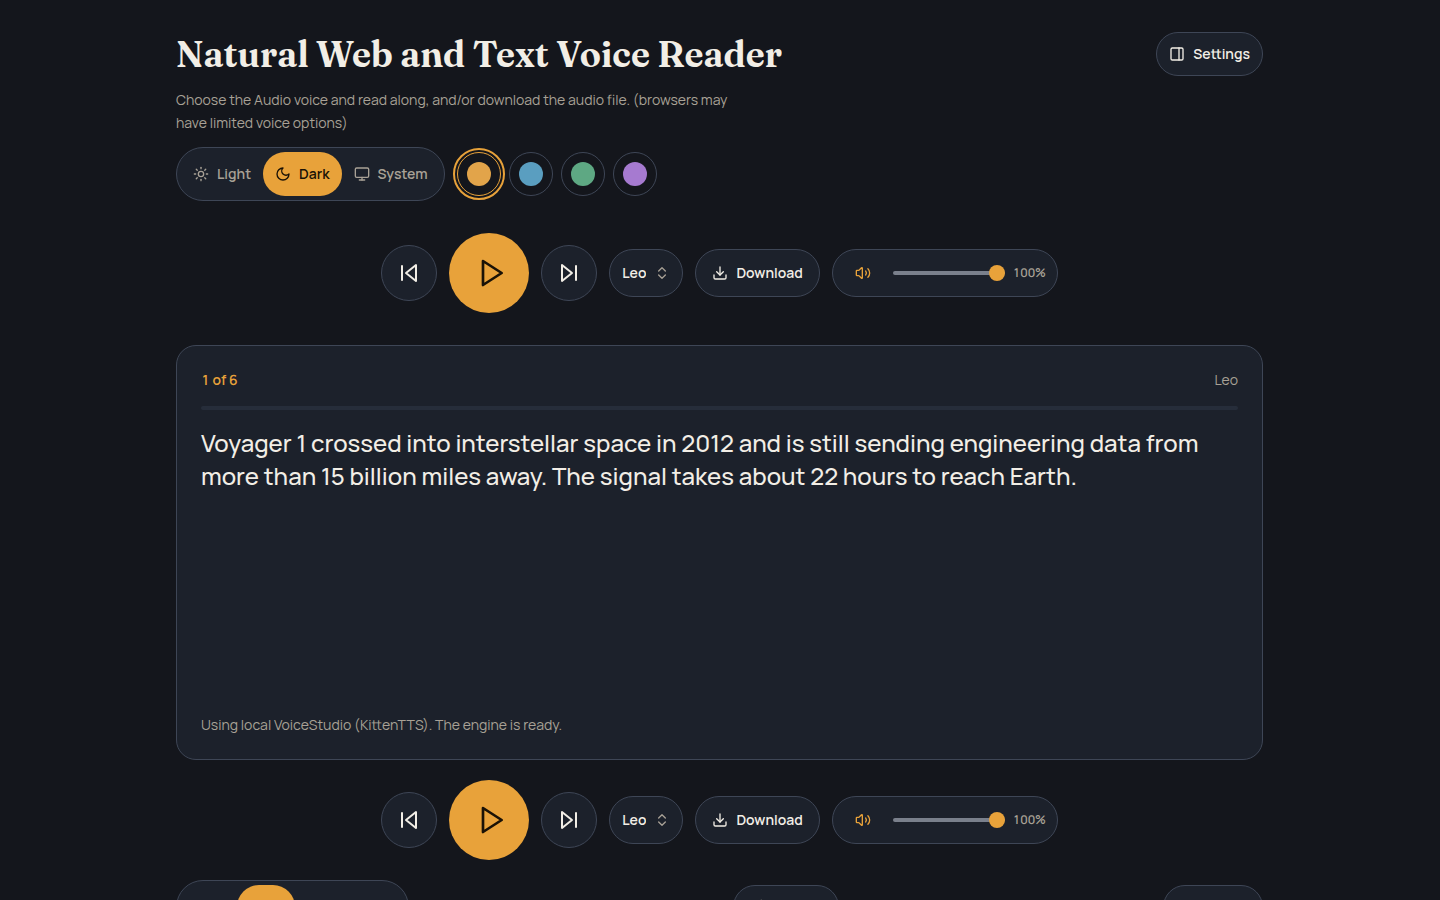
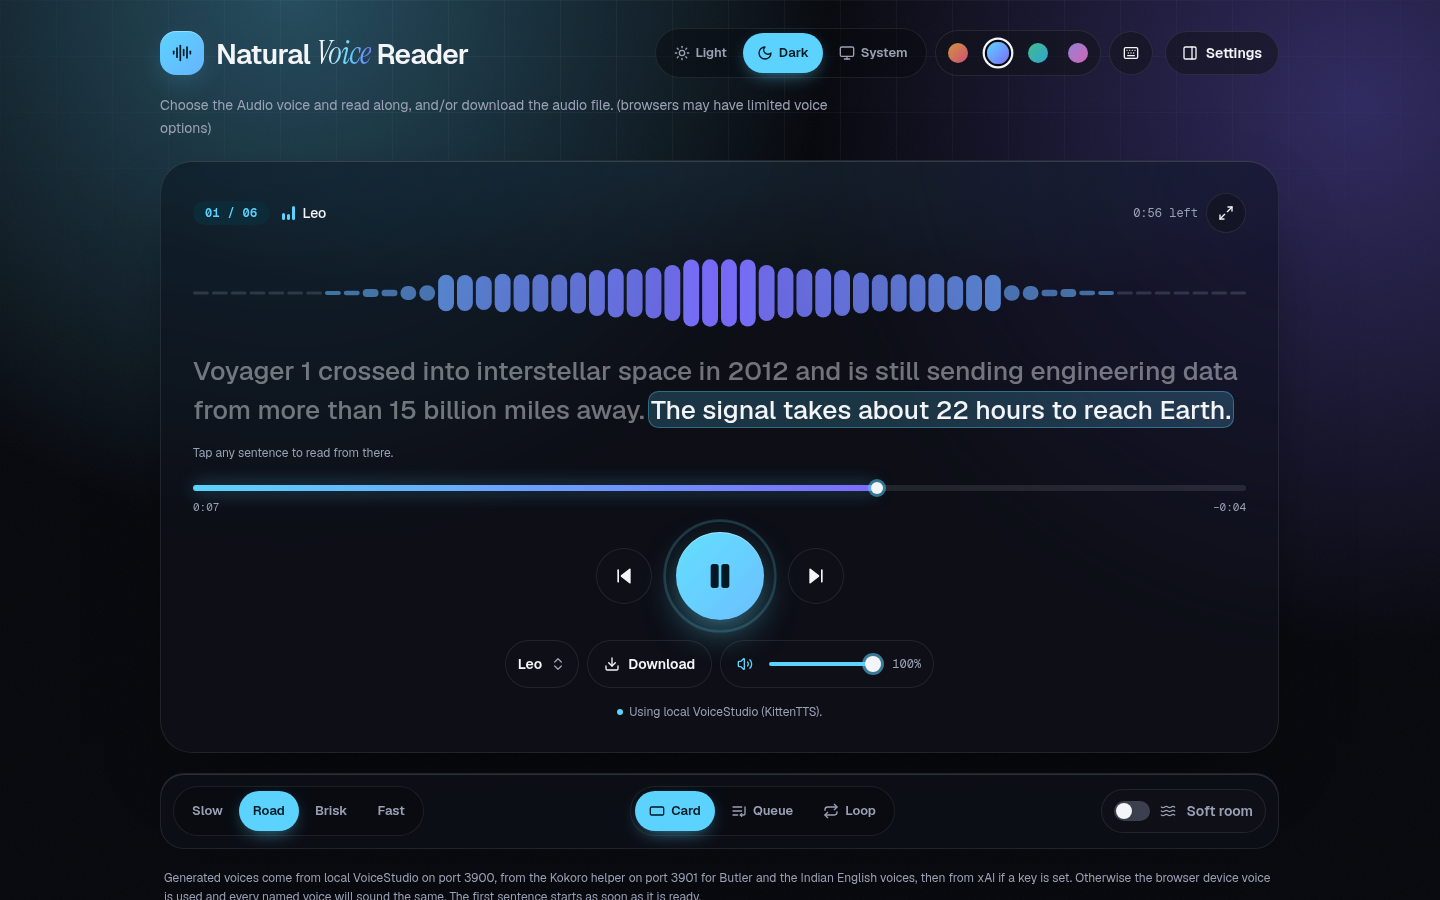
Retake the README screenshots for the redesign
New screenshots of the dark and light themes, settings hidden, the voice
picker, the voice-pack browser, and a phone, each taken while a real
voice was reading so the visualizer and read-along highlight show. Adds a
focus-mode screenshot, updates the captions and accent names, and
describes the read-along features and shortcuts.

diff --git a/README.md b/README.md
@@ -7,22 +7,25 @@ browser.
 
 ## Screenshots
 
-Dark and light themes, settings hidden so the queue can use the full width,
-the searchable voice picker, the community pack browser, and a phone-sized
-layout. Appearance can follow the system theme, and four accents (Amber, Sky,
-Sage, and Violet) tint the controls in both modes.
+Dark and light themes while a voice is reading, settings hidden so the reader
+can use the full width, focus mode, the searchable voice picker, the community
+pack browser, and a phone-sized layout. Appearance can follow the system
+theme, and four accents (Solar, Cyan, Mint, and Violet) tint the controls in
+both modes.
 
-![The reader in the dark theme, with the sample queue and settings open.](docs/screenshots/desktop-dark.png)
+![The reader in the dark theme while Leo reads: the visualizer follows the voice, the spoken sentence is faded, and the sentence being read is highlighted.](docs/screenshots/desktop-dark.png)
 
-![The reader in the light theme, with a warm paper background and the sample queue.](docs/screenshots/desktop-light.png)
+![The reader in the light theme with the violet accent, mid-sentence.](docs/screenshots/desktop-light.png)
 
-![The same desktop layout with the settings panel hidden so the queue can use the full width.](docs/screenshots/settings-hidden.png)
+![The same desktop layout with the settings panel hidden so the reader can use the full width.](docs/screenshots/settings-hidden.png)
 
-![The searchable voice picker, with a compact control in the playback bar.](docs/screenshots/voice-picker.png)
+![Focus mode, which leaves only the text, the visualizer, and the playback controls.](docs/screenshots/focus-mode.png)
+
+![The searchable voice picker, opened from the compact control under the play button.](docs/screenshots/voice-picker.png)
 
 ![The Browse voice packs dialog, listing community packs with licenses and filters.](docs/screenshots/browse-packs.png)
 
-![The reader on a narrow phone screen.](docs/screenshots/mobile.png)
+![The reader on a narrow phone screen while a voice is reading.](docs/screenshots/mobile.png)
 
 ## Requirements
 
@@ -240,6 +243,16 @@ System (the default for new readers, following the device theme), and pick an
 accent for buttons and highlights. On screens narrower than
 1024px the panel starts collapsed and opens as a slide-over drawer. That
 preference is saved with the rest of the reader settings.
+
+While a card plays, the sentence being read is highlighted and sentences
+already read fade back, and the visualizer follows the voice. Tap or click
+any sentence to read from there. Pause and Play pick up at the same sentence.
+Press `F` for focus mode, which hides everything but the text and the playback
+controls. Once you scroll past the reader, a mini player stays at the bottom
+of the screen. The reader also shows the time left on the card and in the
+queue. To queue a text or Markdown file, use **Open file** or drop it on the
+page. Press `?` for the keyboard shortcuts: Space plays or pauses, the arrow
+keys move between cards, `[` and `]` change speed, and `M` mutes.
 
 Next to the speed buttons, choose what happens when a card ends. **Card** (the
 default) stops and cues the next card, so Play continues where you left off.
